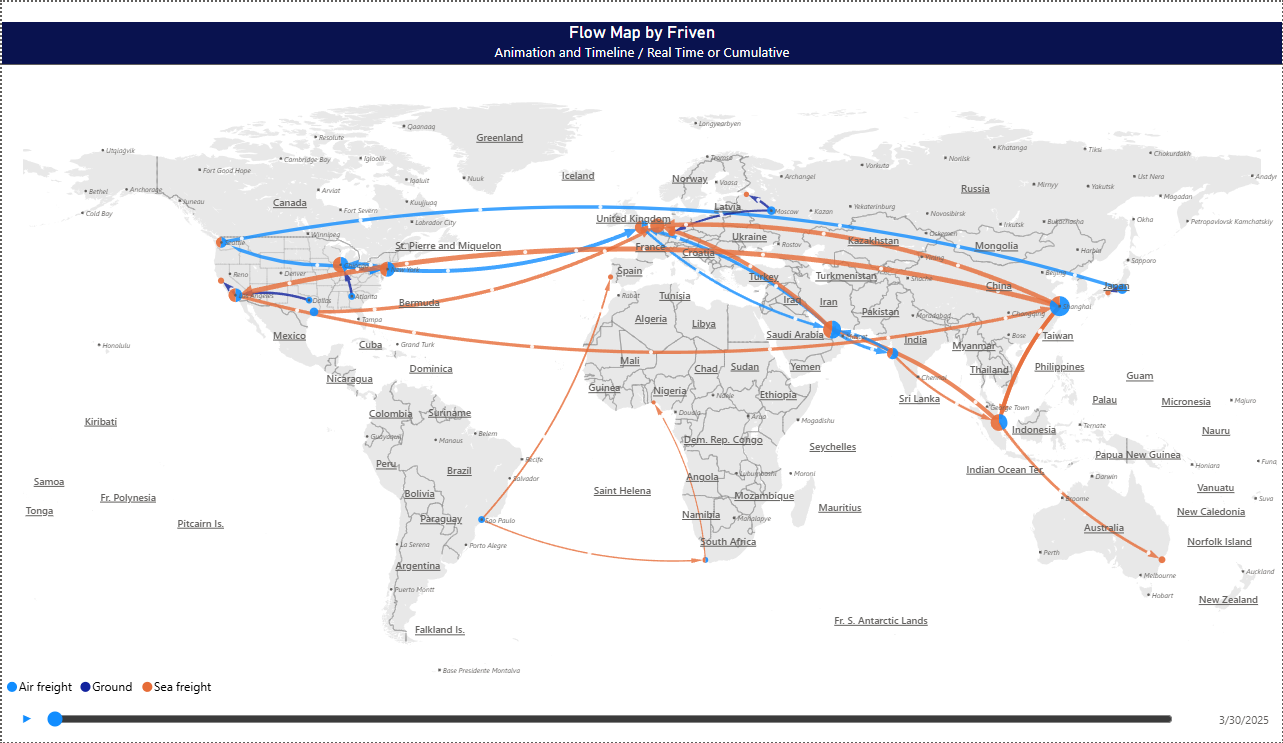
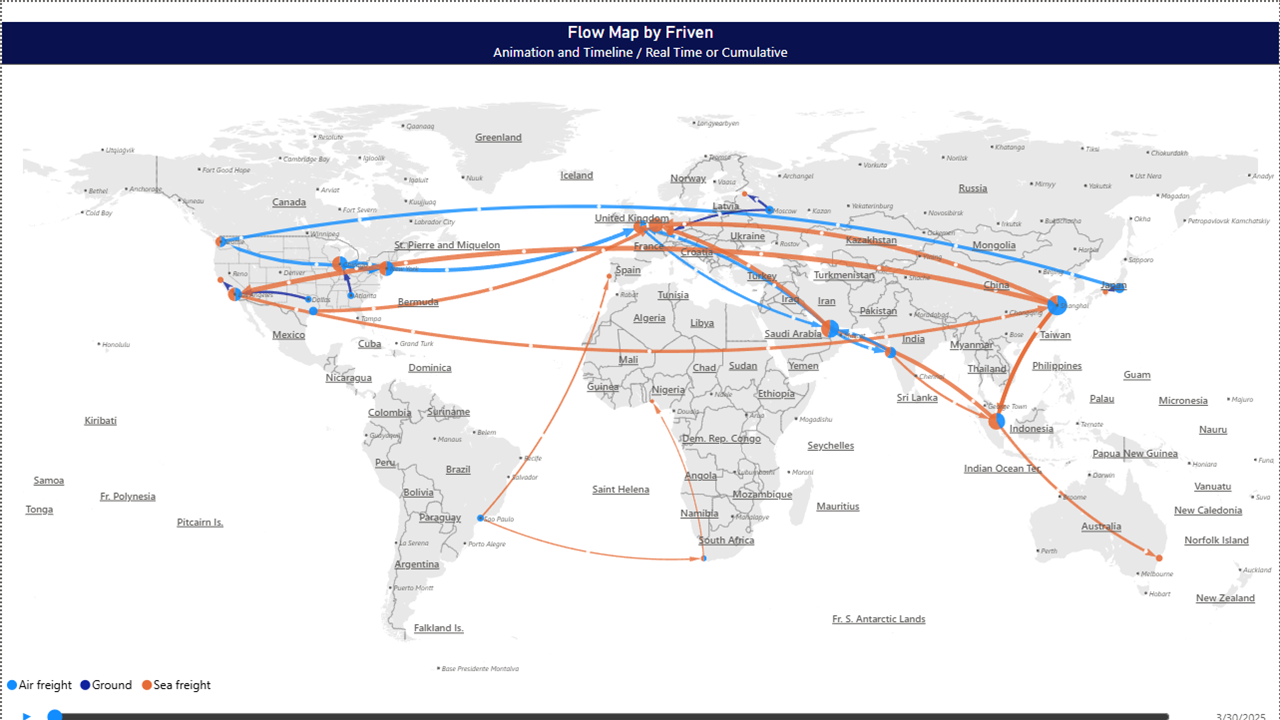
Conform screenshots to 1280x720, and make room for the sample report
Partner Center requires exactly 1280x720. These were captured at 1283x743, so all
four would have been rejected. Cropped to 16:9 from the bottom - empty Southern Ocean
in every shot - then scaled, so nothing was lost or stretched.

Adds sample/ for the .pbix, with a note on why it lives here rather than in the
visual's own repository: that one is private, so nothing in it can be downloaded by a
customer. The guide now links to it.

diff --git a/guide.html b/guide.html
@@ -208,6 +208,11 @@ Seoul||KOR</code></pre>
       report.</li>
   </ul>
 
+  <h2>Sample report</h2>
+  <p>A ready-made report is available if you would rather see the fields bound than read about
+  them: <a href="sample/flow-map-sample.pbix">download the sample .pbix</a>. It contains its own
+  data, so it opens and renders without a connection to anything.</p>
+
   <h2 id="attribution">Data attribution</h2>
   <p>Place-name lookup uses data from <a href="https://www.geonames.org/">GeoNames</a>, used under
   <a href="https://creativecommons.org/licenses/by/4.0/">CC BY 4.0</a>.</p>

diff --git a/sample/README.md b/sample/README.md
@@ -1,0 +1,18 @@
+# Sample report
+
+`flow-map-sample.pbix` — the report Microsoft asks for with a Power BI visual submission, and
+the one linked from the user guide.
+
+It must work with no network access: import the data rather than linking to a source, so the
+file opens and renders for someone who has never seen the CSV.
+
+The data it is built from lives in the visual's own repository:
+
+| File | Purpose |
+|---|---|
+| `sample-data.csv` | 53 rows of coordinate-based flows |
+| `sample-data-locations.csv` | 48 rows using the `City\|State\|Country` fields, 9 deliberately unresolvable |
+| `sample-data-large.csv` | 403 rows, for exercising the flow limit |
+
+Keep the `.pbix` here rather than in the visual's repository: that one is private, so nothing in
+it can be linked to or downloaded by a customer.
